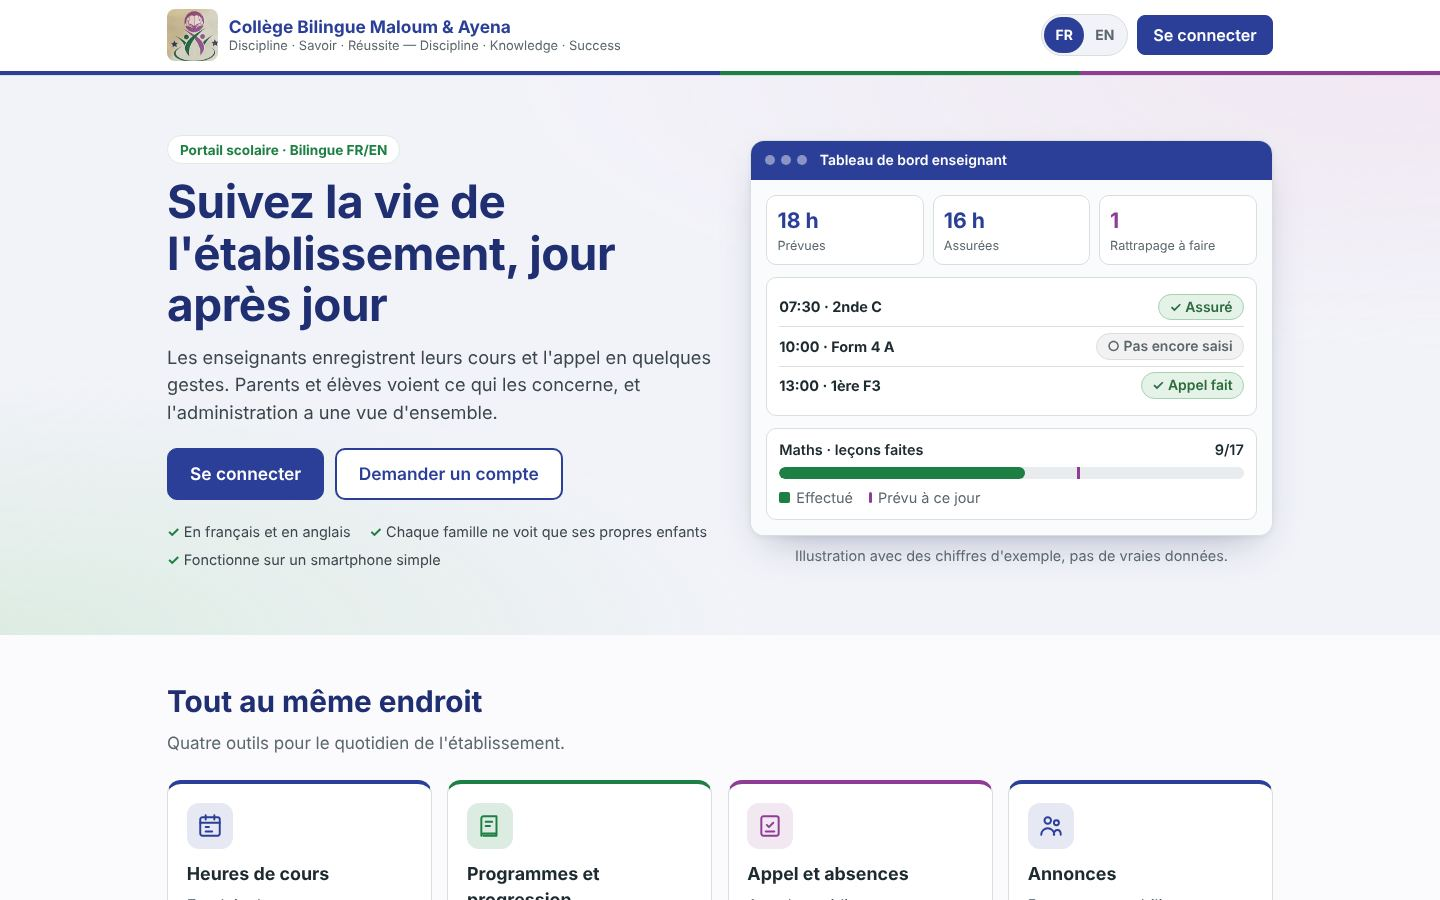
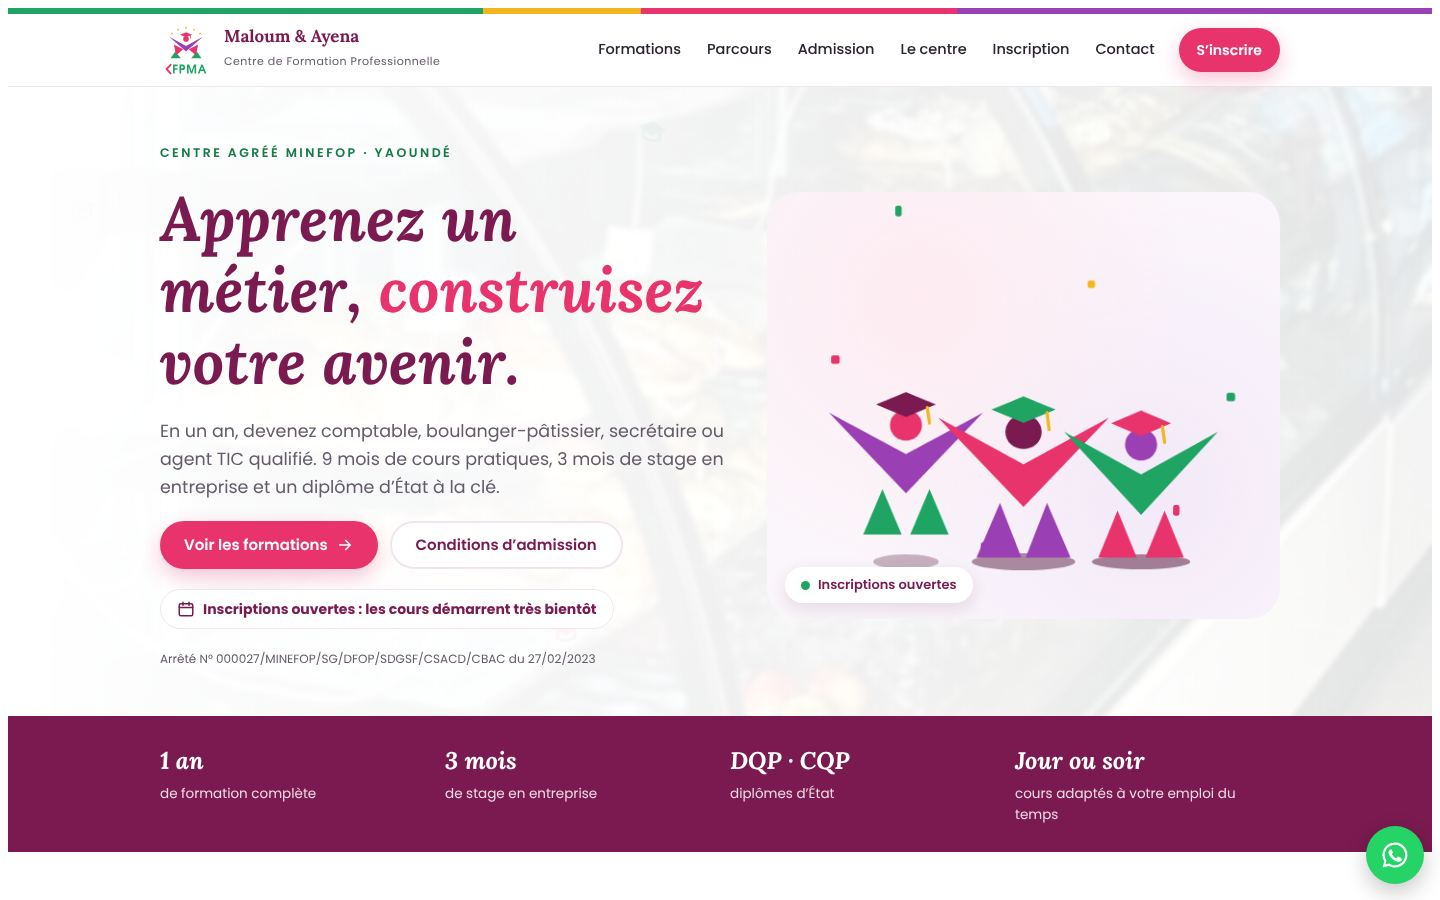
CFPMA: show the training center site, not the school portal
Claude-Session: https://claude.ai/code/session_01Y6PF92Mtk2yxwNFRoCxa5F

diff --git a/src/content.ts b/src/content.ts
@@ -65,9 +65,9 @@ export type Project = { name: string; category: string; href: string; images: [s
 export const projects: Project[] = [
   {
     name: 'CFPMA',
-    category: 'School platform',
-    href: 'https://cfpma-maloum-ayena.vercel.app',
-    // Real screenshots of the Collège Bilingue Maloum & Ayena portal (public/work/)
+    category: 'Training center website',
+    href: 'https://cfpma-maloum.com',
+    // Real screenshots of the Centre de Formation Professionnelle Maloum & Ayena site (public/work/)
     images: ['work/cfpma-1.jpg', 'work/cfpma-2.jpg', 'work/cfpma-3.jpg'],
   },
 ];
